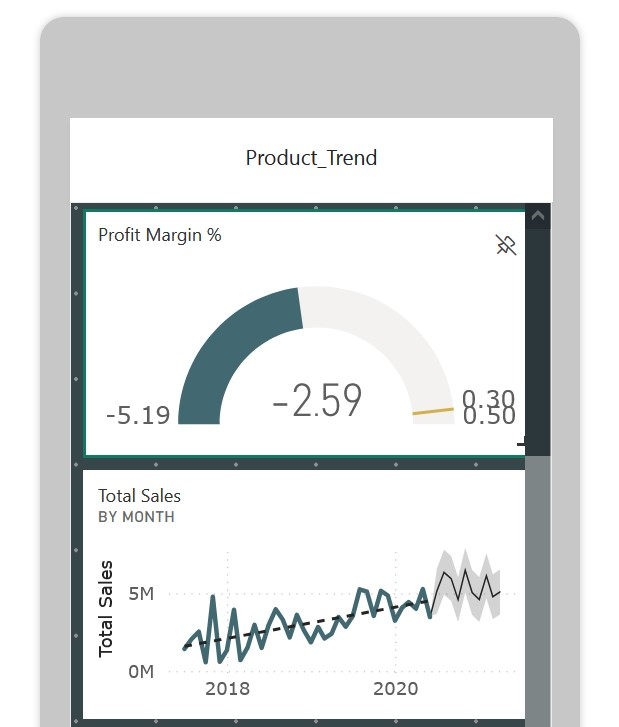
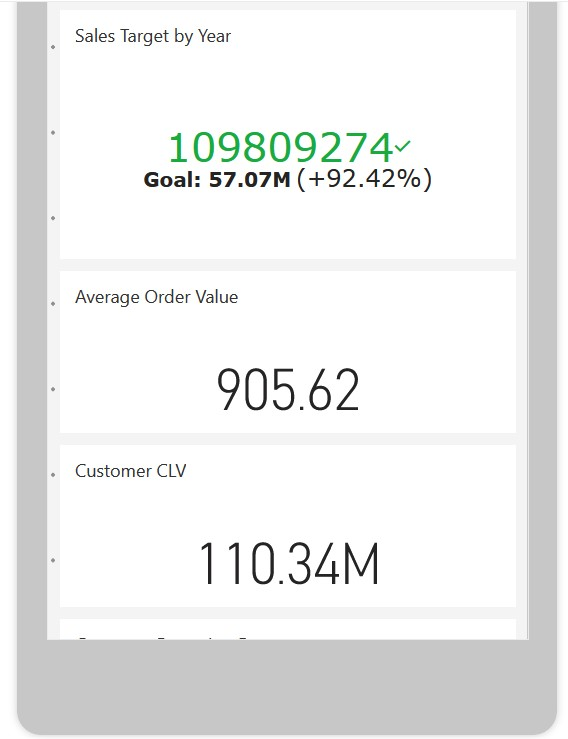
Updated Dashboard

diff --git a/README_TEMPLATE.md b/README_TEMPLATE.md
@@ -79,9 +79,9 @@
   Dashboard
 
  <p align="center">
-  <img src="Screenshots/DASHBOARD/001.jpg" width="300"/>
-  <img src="Screenshots/DASHBOARD/002.jpg" width="300"/>
-  <img src="Screenshots/DASHBOARD/003.jpg" width="300"/>
+  <img src="Screenshots/DASHBOARD/001.jpg" width="250"/>
+  <img src="Screenshots/DASHBOARD/002.jpg" width="250"/>
+  <img src="Screenshots/DASHBOARD/003.jpg" width="250"/>
  </p>
 
   ## Row-Level Security (RLS)
